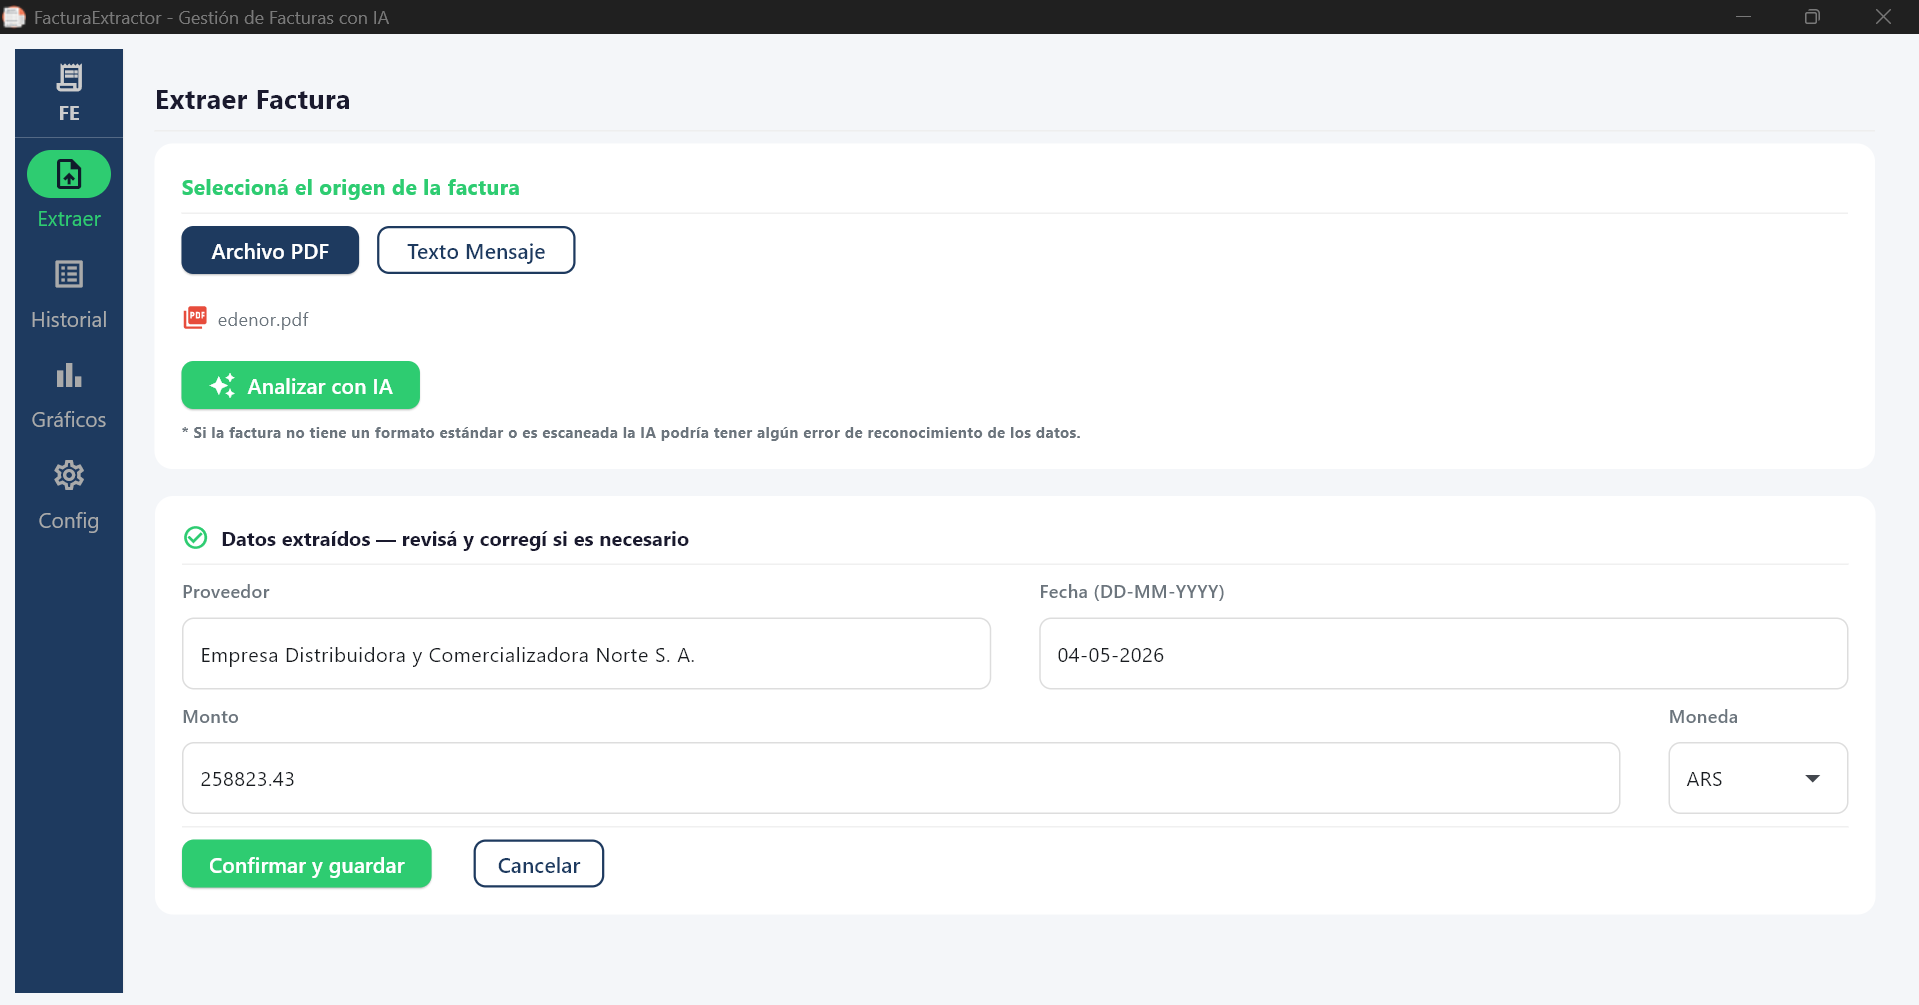
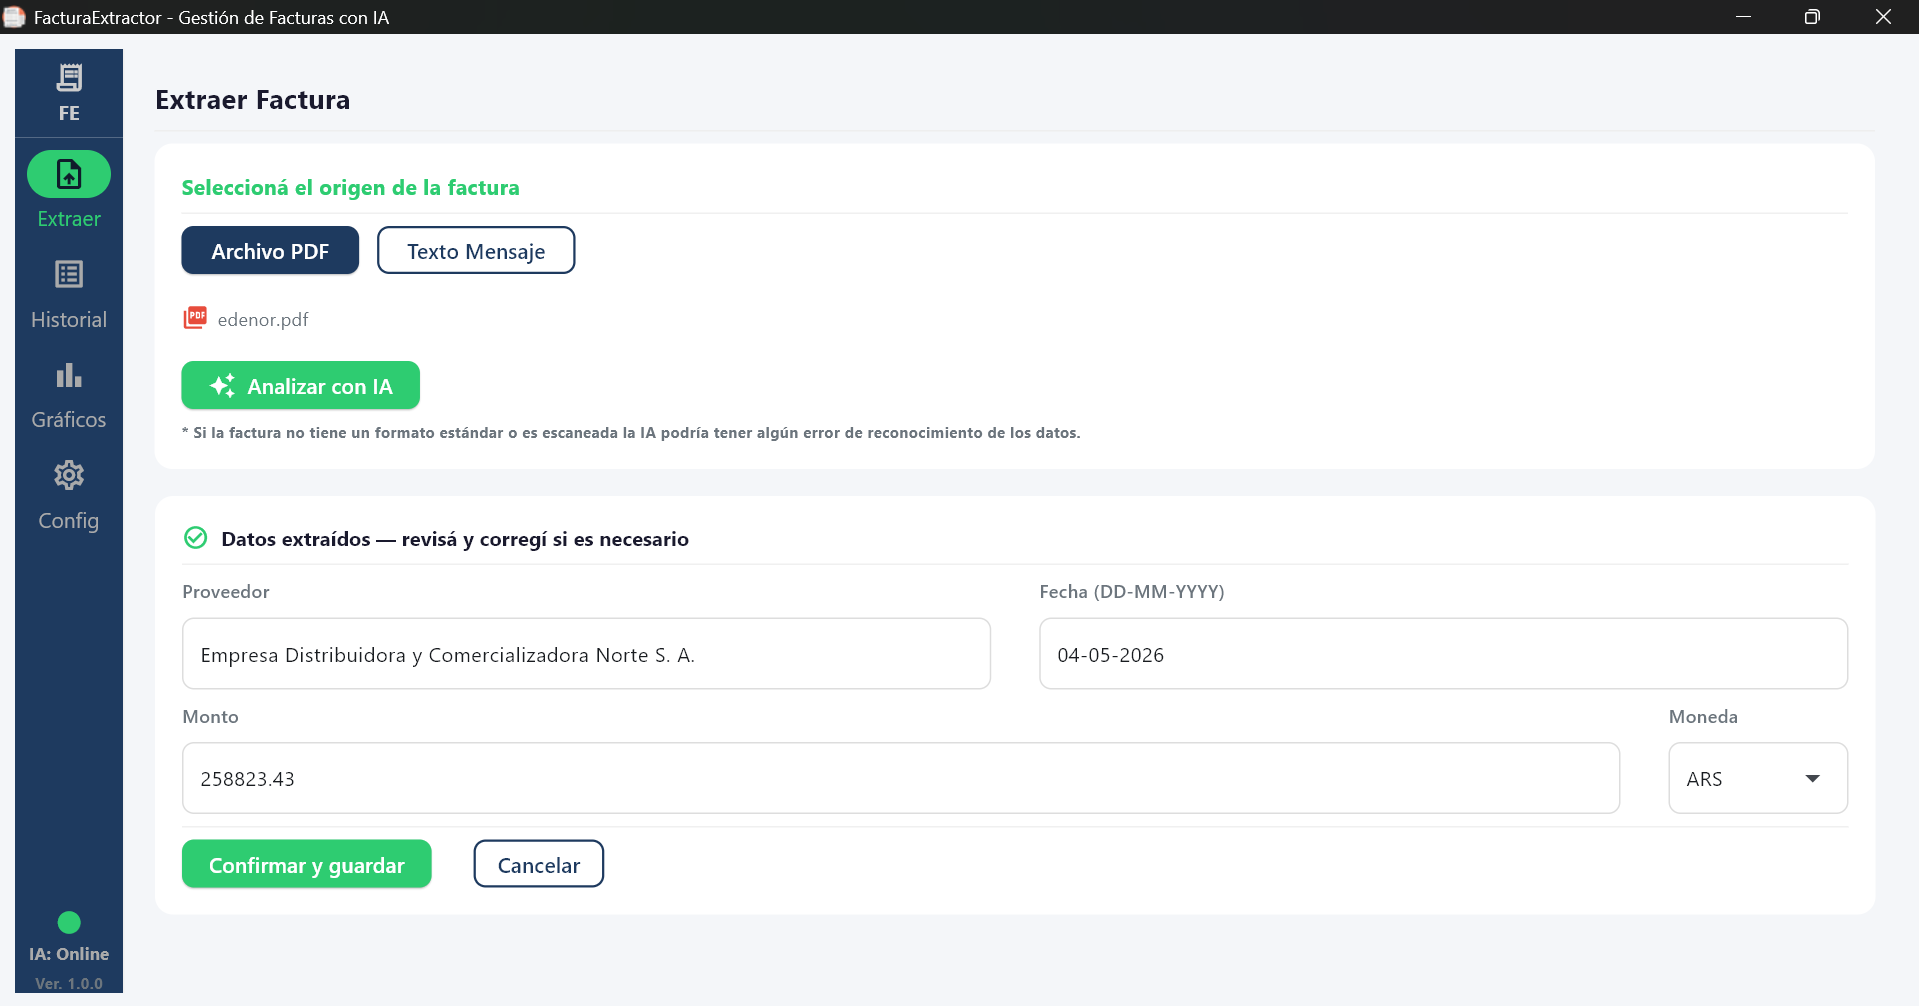
docs(readme): actualizar guía de instalación y capturas de pantalla

diff --git a/README.md b/README.md
@@ -30,7 +30,7 @@ Aplicación de escritorio para Windows que extrae automáticamente los datos de 
 
 ## Cómo funciona
 
-1. Al abrir la app, se descarga el modelo de IA si no se encuentra en el equipo, luego el modelo se carga en RAM en segundo plano.
+1. Al abrir la app, se descarga el modelo de IA si no se encuentra en el equipo, luego el modelo se carga en RAM en segundo plano, cuando termina se muestra con un indicador que ya se encuentra online.
 2. Seleccionás un PDF de factura.
 3. La app extrae el texto del PDF (nativo o via OCR si está escaneado).
 4. El modelo extrae: **proveedor**, **fecha**, **monto** y **moneda**.
@@ -43,9 +43,11 @@ Aplicación de escritorio para Windows que extrae automáticamente los datos de 
 
 ## Capturas de pantalla
 
-| Extracción | Historial | Gráficos |
-|:---:|:---:|:---:|
-| ![Extracción](assets/Extracción.png) | ![Historial](assets/Historial.png) | ![Gráficos](assets/Gráficos.png) |
+
+ ![Extracción](assets/Extracción.png) 
+ ![Historial](assets/Historial.png) 
+ ![Gráficos](assets/Gráficos.png)
+ ![Configuración](assets/Configuración.png)
 
 ---
 
@@ -76,6 +78,8 @@ FacturaExtractor/
 │   ├── history_view.py     ← historial de facturas
 │   └── settings_view.py    ← configuración de carpeta destino
 ├── main.py                 ← punto de entrada, navegación, ciclo de vida
+├── README.md
+├── README.txt
 └── pyproject.toml
 ```
 